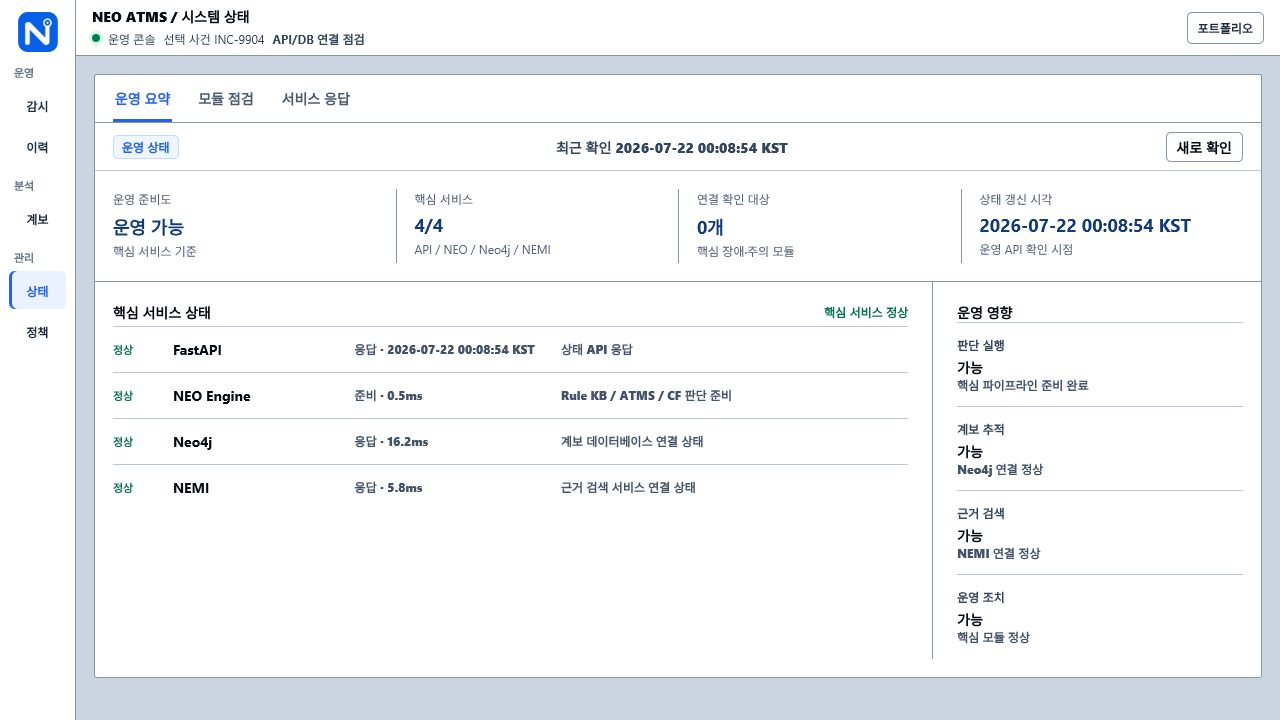
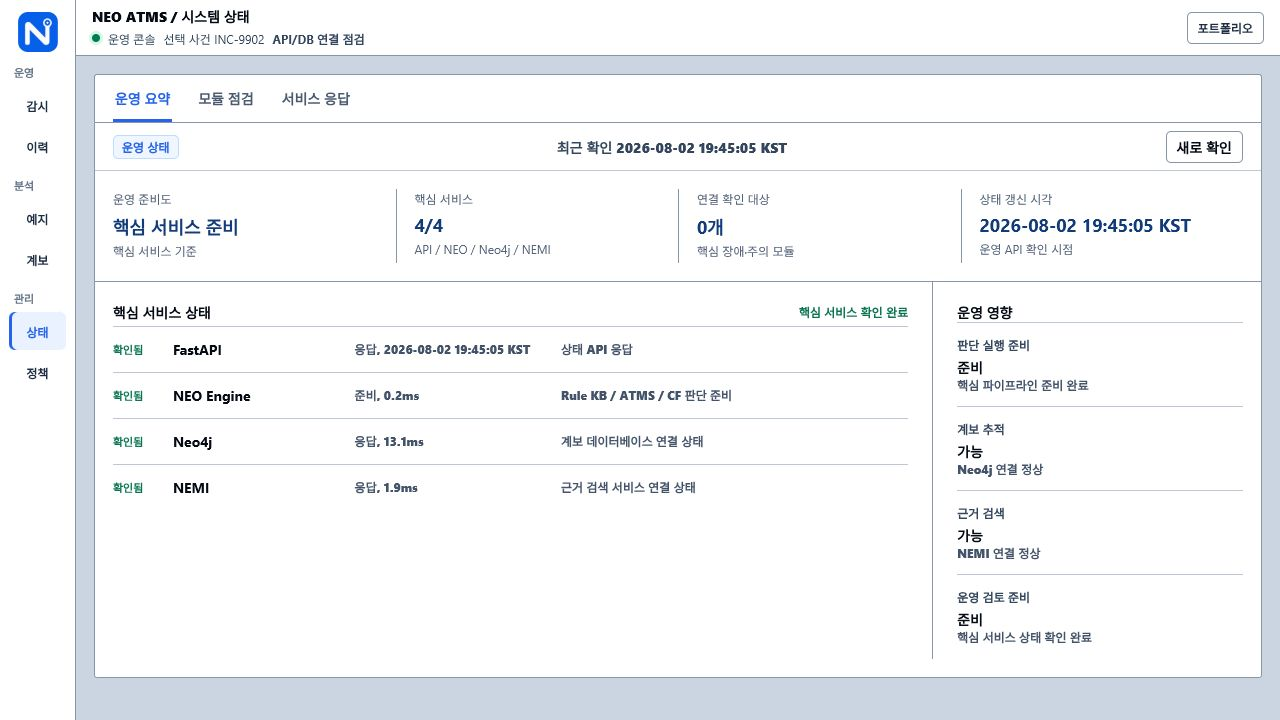
docs: NEO v1.0.0 공개 릴리즈 기록

diff --git a/docs/releases/NEO_V1.0.0.md b/docs/releases/NEO_V1.0.0.md
@@ -1,0 +1,54 @@
+# NEO v1.0.0 릴리즈 기록
+
+- 배포일: 2026-08-02
+- 상태: GitHub, Docker Hub, AWS 배포 및 검증 완료
+- 서비스 주소: `https://3-38-33-156.sslip.io/neo`
+
+## 릴리즈 범위
+
+- NEO Rule Engine, ATMS, CF 기반 판단
+- FastAPI 오케스트레이션
+- Neo4j Graph RAG 계보 저장 및 조회
+- NEMI Vector RAG 근거 검색
+- Amazon Bedrock Nova 2 Lite 판단 설명
+- Vue 관제 화면 6개
+
+핵심 규칙 엔진과 Rule KB는 비공개 자산이며, 공개 저장소에는 화면과 설계·배포 문서만 포함한다.
+
+## Docker Hub 이미지
+
+| 구성요소 | 이미지 | 고정 다이제스트 |
+| --- | --- | --- |
+| Vue 관제 화면 | `kimmj6466/neo-operator-frontend:v1.0.0` | `sha256:7b36a2fc1fff65ea77e97af65dddf3033853f7126deda1140ec3f64bbb7bc599` |
+| NEO FastAPI | `kimmj6466/neo-operator-api:v1.0.0` | `sha256:0eb7b7ff10ead48e14ef45c63a3fe275eefa3312d2c21c335c312f421320bbfc` |
+| NEMI API | `kimmj6466/neo-nemi-api:v1.0.0` | `sha256:587045efd529d699c09eb4e0e6cd479d48d1a9238539eab52cb09d3ff6940f99` |
+
+AWS EC2는 위 다이제스트를 직접 참조하므로 Docker Hub 태그가 이후 변경돼도 v1 실행본은 바뀌지 않는다.
+
+## 검증 결과
+
+| 항목 | 결과 |
+| --- | --- |
+| Python 단위 테스트 | 218개 통과 |
+| NEO Vue 프로덕션 빌드 | 통과 |
+| 엔진 E2E 스모크 | 통과 |
+| FastAPI 스모크 | 통과 |
+| Vue 클라이언트 스모크 | 통과 |
+| 공개 화면 6개 | 모두 HTTP 200 |
+| 공개 실시간 파이프라인 | 완료 |
+| NEO 판단 | `requires_operator_ack`, CF `0.85` |
+| Neo4j 동기화 | 20노드, 28관계 |
+| NEMI 검색 | 문서 2건 |
+| Bedrock 설명 | Nova 2 Lite 응답 성공, 1,305ms |
+| 배포 직후 오류 로그 | 0건 |
+
+## 배포 안전성
+
+- 브라우저에는 API 키를 포함하지 않고 프론트 Nginx가 내부 프록시 요청에만 키를 주입한다.
+- FastAPI, Neo4j, NEMI, Qdrant 포트는 EC2 루프백에만 바인딩한다.
+- 설명 모델은 NEO 판단을 변경할 수 없고 읽기 전용 설명만 제공한다.
+- 운영자 승인 전에는 외부 조치를 자동 송출하지 않는다.
+
+## 다음 릴리즈
+
+v2에서는 감시 화면의 정보 위계, 계보 탐색, 로딩·오류 복구, 이력 가독성과 전체 반응형 흐름을 개선한다.
